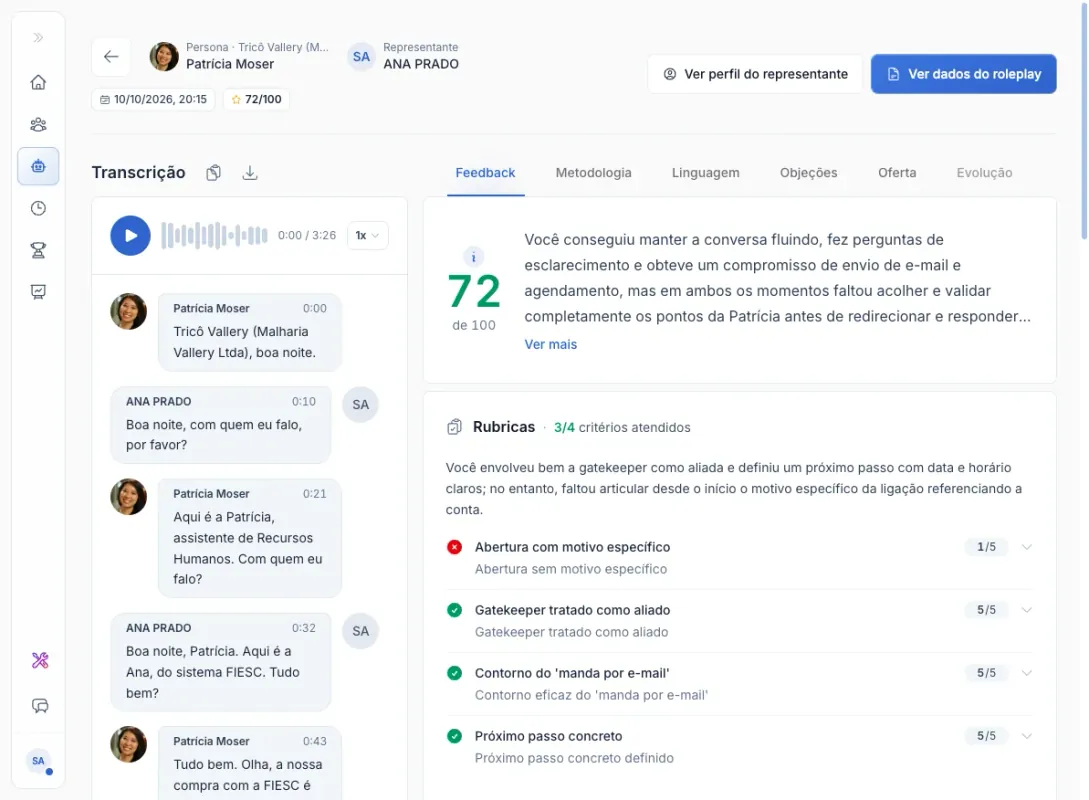
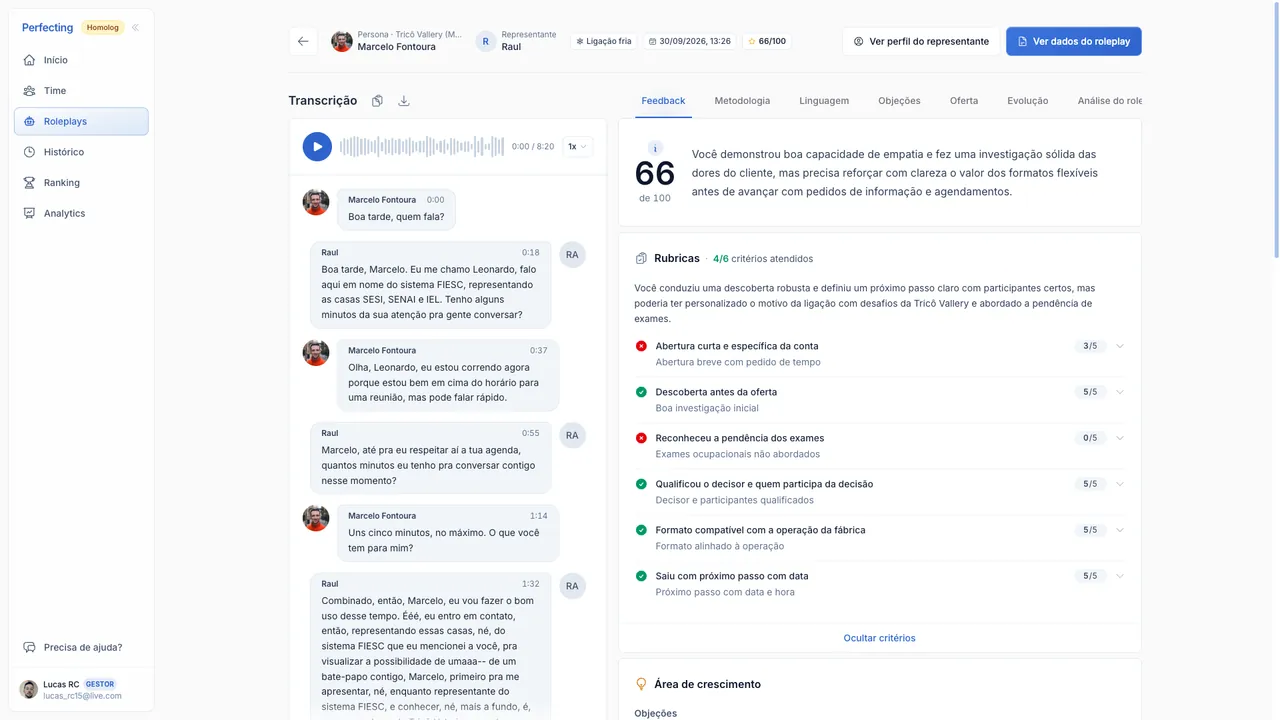
Recaptura o resultado da Perfecting em 1920, com o cabeçalho numa linha

diff --git a/content/vitrine.ts b/content/vitrine.ts
@@ -64,7 +64,7 @@ export const VITRINE: readonly VitrineItem[] = [
     screens: [
       { src: `${V}/perfecting/analytics.mp4`, aspect: WIDE },
       { src: `${V}/perfecting/antes-e-durante.webp`, aspect: 1.6 },
-      { src: `${V}/perfecting/resultado.webp`, aspect: 1.362 },
+      { src: `${V}/perfecting/resultado.webp`, aspect: 1.778 },
     ],
   },
   {
